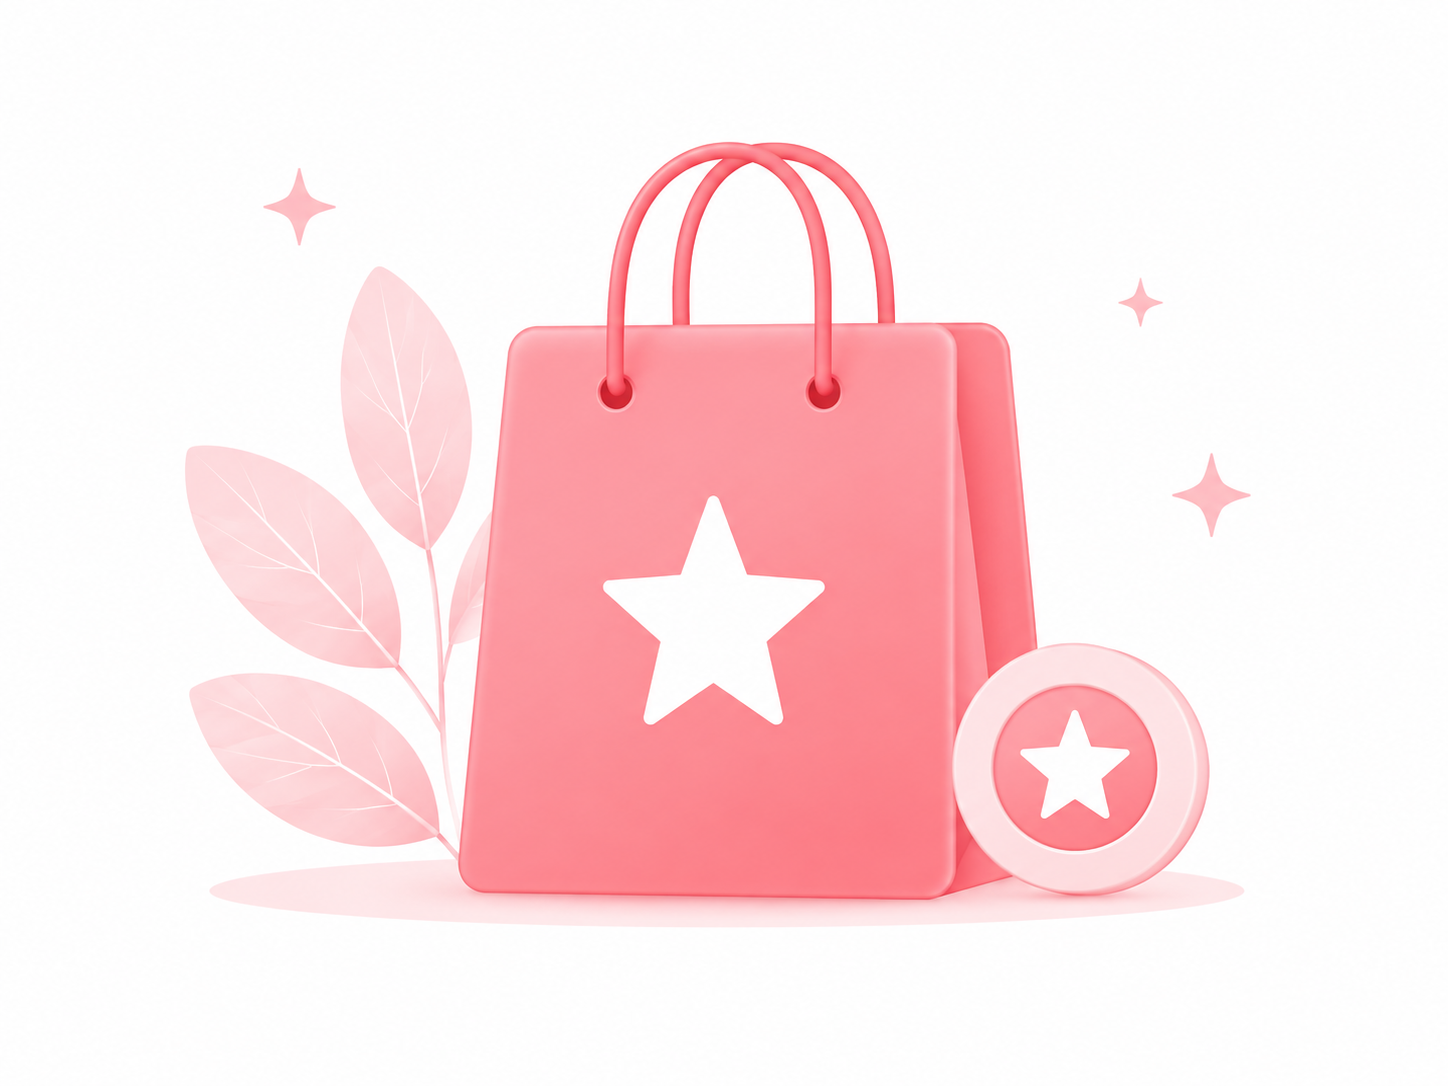
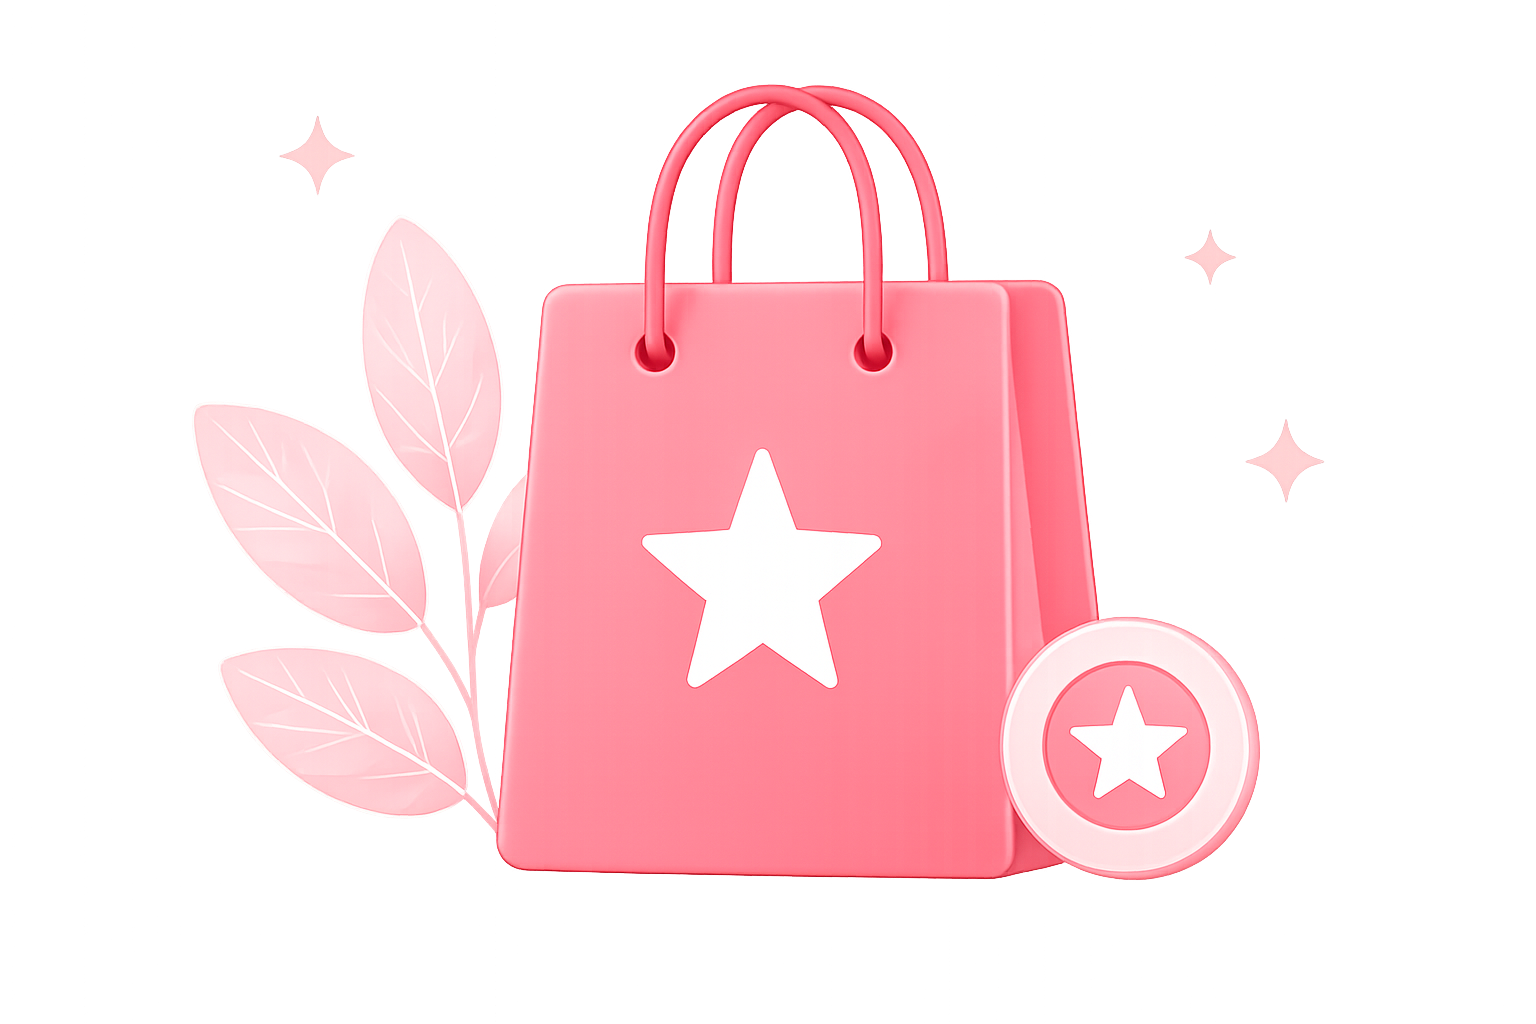
feat: telas iniciais e assets do projeto

diff --git a/frontend/src/components/ui/WelcomeCarousel.tsx b/frontend/src/components/ui/WelcomeCarousel.tsx
@@ -1,0 +1,73 @@
+import { ChevronLeftIcon, ChevronRightIcon } from '../icons/auth-icons'
+
+type CarouselSlide = {
+  eyebrow?: string
+  title: string
+  description: string
+}
+
+type WelcomeCarouselProps = {
+  slides: CarouselSlide[]
+  activeIndex: number
+  onPrevious: () => void
+  onNext: () => void
+  className?: string
+}
+
+export function WelcomeCarousel({
+  slides,
+  activeIndex,
+  onPrevious,
+  onNext,
+  className = '',
+}: WelcomeCarouselProps) {
+  const activeSlide = slides[activeIndex] ?? slides[0]
+  const hasPrev = activeIndex > 0
+  const hasNext = activeIndex < slides.length - 1
+
+  return (
+    <div className={`w-full ${className}`}>
+      <div className="flex items-start gap-3">
+        {hasPrev ? (
+          <button
+            type="button"
+            className="cursor-pointer self-center p-0 text-[#DD0205] transition-transform active:scale-95"
+            aria-label="Voltar carrossel"
+            onClick={onPrevious}
+          >
+            <ChevronLeftIcon className="h-8 w-8" />
+          </button>
+        ) : (
+          <span className="h-8 w-8 shrink-0" />
+        )}
+
+        <div className="min-w-0 flex-1">
+          {activeSlide.eyebrow ? (
+            <p className="text-[0.78rem] font-semibold uppercase tracking-[0.22em] text-[#D60606]">
+              {activeSlide.eyebrow}
+            </p>
+          ) : null}
+          <p className="mt-2 text-[1.08rem] font-semibold tracking-[-0.03em] text-[#0f172a] sm:text-[1.14rem]">
+            {activeSlide.title}
+          </p>
+          <p className="mt-2 text-[1.02rem] leading-[1.65] text-[#6f7584] sm:text-[1.08rem]">
+            {activeSlide.description}
+          </p>
+        </div>
+
+        {hasNext ? (
+          <button
+            type="button"
+            className="cursor-pointer self-center p-0 text-[#DD0205] transition-transform active:scale-95"
+            aria-label="Avançar carrossel"
+            onClick={onNext}
+          >
+            <ChevronRightIcon className="h-8 w-8" />
+          </button>
+        ) : (
+          <span className="h-8 w-8 shrink-0" />
+        )}
+      </div>
+    </div>
+  )
+}

diff --git a/frontend/src/components/icons/auth-icons.tsx b/frontend/src/components/icons/auth-icons.tsx
@@ -6,15 +6,15 @@ export function PersonIcon({ className }: IconProps) {
   return (
     <svg viewBox="0 0 24 24" fill="none" className={className} aria-hidden="true">
       <path
-        d="M20 21v-1.5c0-2.485-3.582-4.5-8-4.5s-8 2.015-8 4.5V21"
+        d="M12 12c2.21 0 4-1.79 4-4s-1.79-4-4-4-4 1.79-4 4 1.79 4 4 4Z"
         stroke="currentColor"
-        strokeWidth="1.8"
-        strokeLinecap="round"
+        strokeWidth="1.9"
       />
       <path
-        d="M12 12.5a4 4 0 1 0 0-8 4 4 0 0 0 0 8Z"
+        d="M20 20.5c0-3.87-3.58-7-8-7s-8 3.13-8 7"
         stroke="currentColor"
-        strokeWidth="1.8"
+        strokeWidth="1.9"
+        strokeLinecap="round"
       />
     </svg>
   )
@@ -23,8 +23,8 @@ export function PersonIcon({ className }: IconProps) {
 export function MailIcon({ className }: IconProps) {
   return (
     <svg viewBox="0 0 24 24" fill="none" className={className} aria-hidden="true">
-      <rect x="3.5" y="5" width="17" height="14" rx="2.2" stroke="currentColor" strokeWidth="1.8" />
-      <path d="m5.5 7.5 6.5 5 6.5-5" stroke="currentColor" strokeWidth="1.8" strokeLinecap="round" />
+      <rect x="3.5" y="5" width="17" height="14" rx="2.2" stroke="currentColor" strokeWidth="1.9" />
+      <path d="M5 7.5 12 13l7-5.5" stroke="currentColor" strokeWidth="1.9" strokeLinecap="round" />
     </svg>
   )
 }
@@ -35,55 +35,71 @@ export function LockIcon({ className }: IconProps) {
       <path
         d="M7.5 10V7.5a4.5 4.5 0 1 1 9 0V10"
         stroke="currentColor"
-        strokeWidth="1.8"
+        strokeWidth="1.9"
         strokeLinecap="round"
       />
-      <rect x="4.5" y="10" width="15" height="10" rx="2.5" stroke="currentColor" strokeWidth="1.8" />
-      <path d="M12 13.25v3" stroke="currentColor" strokeWidth="1.8" strokeLinecap="round" />
+      <rect x="4.5" y="10" width="15" height="10" rx="2.5" stroke="currentColor" strokeWidth="1.9" />
+      <path d="M12 13.25v3" stroke="currentColor" strokeWidth="1.9" strokeLinecap="round" />
       <circle cx="12" cy="14.25" r="0.9" fill="currentColor" />
     </svg>
   )
 }
 
-export function EyeIcon({ className }: IconProps) {
+export function VisibilityIcon({ className }: IconProps) {
   return (
     <svg viewBox="0 0 24 24" fill="none" className={className} aria-hidden="true">
       <path
-        d="M2.5 12s3.4-6.5 9.5-6.5S21.5 12 21.5 12 18.1 18.5 12 18.5 2.5 12 2.5 12Z"
+        d="M2.5 12S5.9 5.5 12 5.5 21.5 12 21.5 12 18.1 18.5 12 18.5 2.5 12 2.5 12Z"
         stroke="currentColor"
-        strokeWidth="1.8"
+        strokeWidth="1.9"
         strokeLinecap="round"
         strokeLinejoin="round"
       />
-      <circle cx="12" cy="12" r="2.7" stroke="currentColor" strokeWidth="1.8" />
+      <circle cx="12" cy="12" r="2.8" stroke="currentColor" strokeWidth="1.9" />
     </svg>
   )
 }
 
-export function EyeOffIcon({ className }: IconProps) {
+export function VisibilityOffIcon({ className }: IconProps) {
   return (
     <svg viewBox="0 0 24 24" fill="none" className={className} aria-hidden="true">
       <path
-        d="M4 4l16 16"
+        d="m4 4 16 16"
         stroke="currentColor"
-        strokeWidth="1.8"
+        strokeWidth="1.9"
         strokeLinecap="round"
       />
       <path
-        d="M10.6 5.2A10 10 0 0 1 12 5c6.1 0 9.5 7 9.5 7a18 18 0 0 1-4.9 5.4"
+        d="M10.6 5.2A10.2 10.2 0 0 1 12 5c6.1 0 9.5 7 9.5 7a17.2 17.2 0 0 1-4.9 5.4"
         stroke="currentColor"
-        strokeWidth="1.8"
+        strokeWidth="1.9"
         strokeLinecap="round"
         strokeLinejoin="round"
       />
       <path
         d="M6.1 6.7C3.7 8.7 2.5 12 2.5 12S5.9 19 12 19c1 0 1.9-.1 2.8-.4"
         stroke="currentColor"
-        strokeWidth="1.8"
+        strokeWidth="1.9"
         strokeLinecap="round"
         strokeLinejoin="round"
       />
-      <path d="M9.3 9.3a3.7 3.7 0 0 0 5.4 5.4" stroke="currentColor" strokeWidth="1.8" strokeLinecap="round" />
+      <path d="M9.3 9.3a3.7 3.7 0 0 0 5.4 5.4" stroke="currentColor" strokeWidth="1.9" strokeLinecap="round" />
+    </svg>
+  )
+}
+
+export function ChevronLeftIcon({ className }: IconProps) {
+  return (
+    <svg viewBox="0 0 24 24" fill="none" className={className} aria-hidden="true">
+      <path d="m14.5 6.5-6 5.5 6 5.5" stroke="currentColor" strokeWidth="2" strokeLinecap="round" strokeLinejoin="round" />
+    </svg>
+  )
+}
+
+export function ChevronRightIcon({ className }: IconProps) {
+  return (
+    <svg viewBox="0 0 24 24" fill="none" className={className} aria-hidden="true">
+      <path d="m9.5 6.5 6 5.5-6 5.5" stroke="currentColor" strokeWidth="2" strokeLinecap="round" strokeLinejoin="round" />
     </svg>
   )
 }

diff --git a/frontend/src/components/ui/PasswordField.tsx b/frontend/src/components/ui/PasswordField.tsx
@@ -1,0 +1,30 @@
+import { useState } from 'react'
+
+import { AuthField } from './AuthField'
+import { LockIcon, VisibilityIcon, VisibilityOffIcon } from '../icons/auth-icons'
+
+type PasswordFieldProps = {
+  placeholder: string
+}
+
+export function PasswordField({ placeholder }: PasswordFieldProps) {
+  const [isVisible, setIsVisible] = useState(false)
+
+  return (
+    <AuthField
+      placeholder={placeholder}
+      type={isVisible ? 'text' : 'password'}
+      icon={<LockIcon className="h-7 w-7" />}
+      trailingAction={
+        <button
+          type="button"
+          className="cursor-pointer rounded-full p-1 text-[#7a8190] transition-colors hover:text-[#DD0205]"
+          aria-label={isVisible ? 'Ocultar senha' : 'Mostrar senha'}
+          onClick={() => setIsVisible((value) => !value)}
+        >
+          {isVisible ? <VisibilityIcon className="h-7 w-7" /> : <VisibilityOffIcon className="h-7 w-7" />}
+        </button>
+      }
+    />
+  )
+}

diff --git a/frontend/src/components/ui/TopOrnament.tsx b/frontend/src/components/ui/TopOrnament.tsx
@@ -1,0 +1,26 @@
+import folhasAsset from '../../assets/folhas2.png'
+
+type TopOrnamentProps = {
+  className?: string
+}
+
+export function TopOrnament({ className = '' }: TopOrnamentProps) {
+  return (
+    <div className={`pointer-events-none relative w-full overflow-hidden ${className}`}>
+      <div className="absolute inset-x-0 top-0 h-24 bg-[linear-gradient(180deg,rgba(255,255,255,0.96),rgba(255,255,255,0.28),rgba(254,245,244,0.9))]" />
+      <div className="relative mx-auto flex w-full max-w-7xl justify-center px-3 sm:px-6">
+        <div className="relative w-full max-w-[22rem] sm:max-w-[34rem] lg:max-w-[62rem]">
+          <img
+            src={folhasAsset}
+            alt=""
+            aria-hidden="true"
+            className="h-20 w-full object-cover object-center opacity-85 sm:h-24 lg:h-32"
+          />
+          <div className="absolute inset-0 bg-[linear-gradient(90deg,rgba(255,255,255,0.22),rgba(255,255,255,0)_18%,rgba(255,255,255,0)_82%,rgba(255,255,255,0.22))]" />
+          <div className="absolute inset-x-6 bottom-2 h-px bg-[linear-gradient(90deg,transparent,rgba(221,2,5,0.18),transparent)] sm:inset-x-12" />
+        </div>
+      </div>
+      <div className="h-10 bg-[linear-gradient(180deg,#fef5f4_0%,rgba(254,245,244,0.86)_55%,rgba(254,245,244,0)_100%)] sm:h-12 lg:h-14" />
+    </div>
+  )
+}

diff --git a/frontend/src/app/routes.tsx b/frontend/src/app/routes.tsx
@@ -1,0 +1,13 @@
+import { LoginScreen } from '../features/auth/pages/LoginScreen'
+import { SignUpScreen } from '../features/auth/pages/SignUpScreen'
+import { appRoutes } from './appRoutes'
+
+export function AppRoutes() {
+  const path = window.location.pathname
+
+  if (path === appRoutes.cadastro) {
+    return <SignUpScreen />
+  }
+
+  return <LoginScreen />
+}

diff --git a/frontend/src/app/appRoutes.ts b/frontend/src/app/appRoutes.ts
@@ -1,0 +1,8 @@
+export const appRoutes = {
+  login: '/',
+  cadastro: '/cadastro',
+} as const
+
+export function navigateTo(path: string) {
+  window.location.assign(path)
+}

diff --git a/frontend/src/App.tsx b/frontend/src/App.tsx
@@ -1,7 +1,7 @@
-import { SignUpScreen } from './features/auth/pages/SignUpScreen'
+import { AppRoutes } from './app/routes'
 
 function App() {
-  return <SignUpScreen />
+  return <AppRoutes />
 }
 
 export default App

diff --git a/frontend/src/components/ui/AuthButton.tsx b/frontend/src/components/ui/AuthButton.tsx
@@ -7,7 +7,7 @@ type AuthButtonProps = ButtonHTMLAttributes<HTMLButtonElement> & {
 
 export function AuthButton({ variant = 'primary', className = '', children, ...props }: AuthButtonProps) {
   const base =
-    'flex h-[4.3rem] w-full items-center justify-center rounded-[1.25rem] text-[1.08rem] font-semibold transition-transform active:scale-[0.99]'
+    'flex h-[4.3rem] w-full cursor-pointer items-center justify-center rounded-[1.25rem] text-[1.08rem] font-semibold transition-transform active:scale-[0.99]'
   const styles =
     variant === 'primary'
       ? 'bg-[#DD0205] text-white shadow-[0_18px_34px_rgba(221,2,5,0.26)]'

diff --git a/frontend/src/components/ui/BrandMark.tsx b/frontend/src/components/ui/BrandMark.tsx
@@ -11,7 +11,7 @@ export function BrandMark({ className = '' }: BrandMarkProps) {
         src={brandIcon}
         alt=""
         aria-hidden="true"
-        className="h-12 w-12 shrink-0 object-contain sm:h-14 sm:w-14"
+        className="h-12 w-12 shrink-0 object-contain sm:h-14 mb-5 sm:w-14"
       />
       <div className="leading-none">
         <div className="text-[2.05rem] font-extrabold tracking-tight text-[#DD0205] sm:text-[2.2rem]">